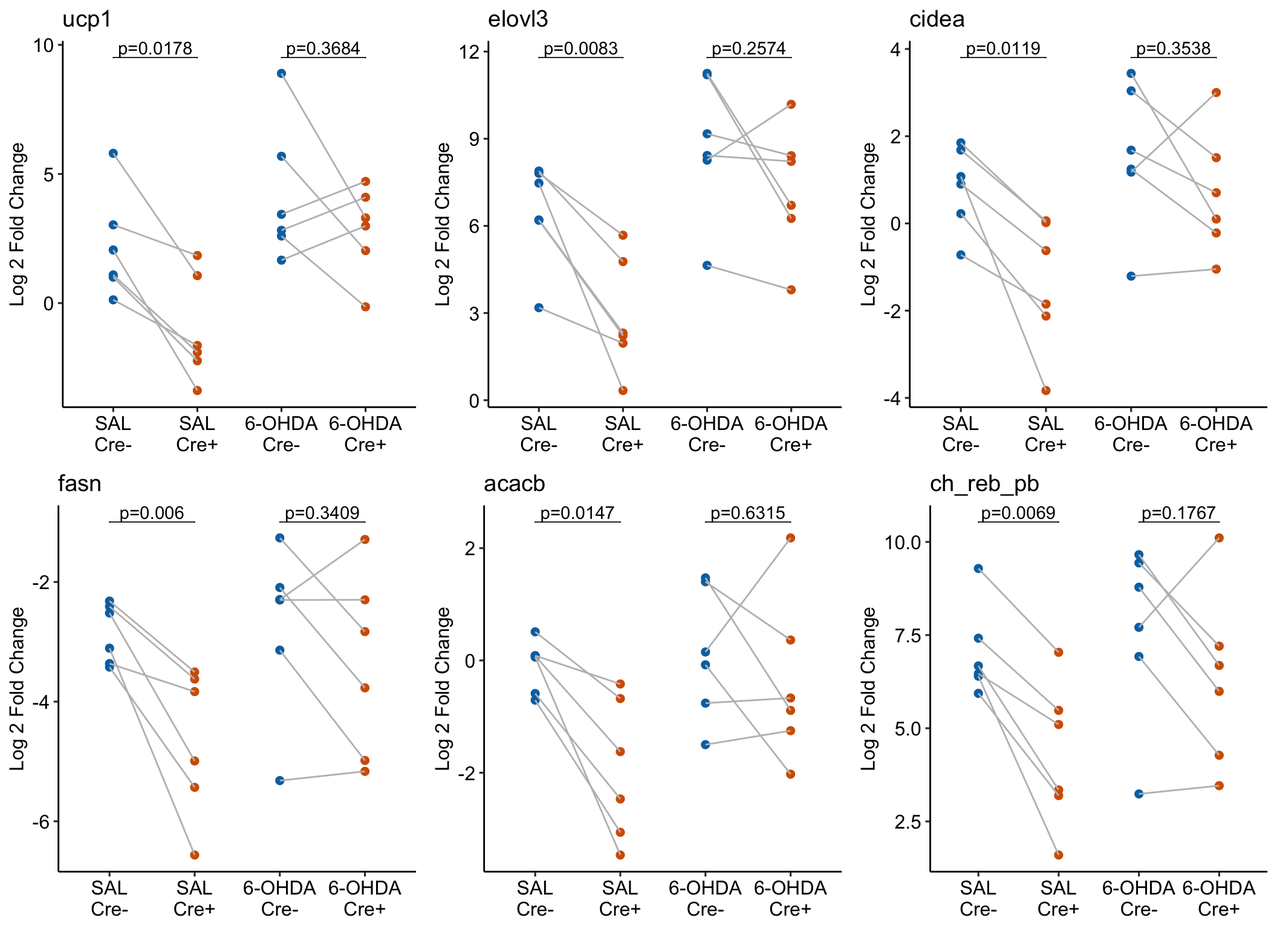
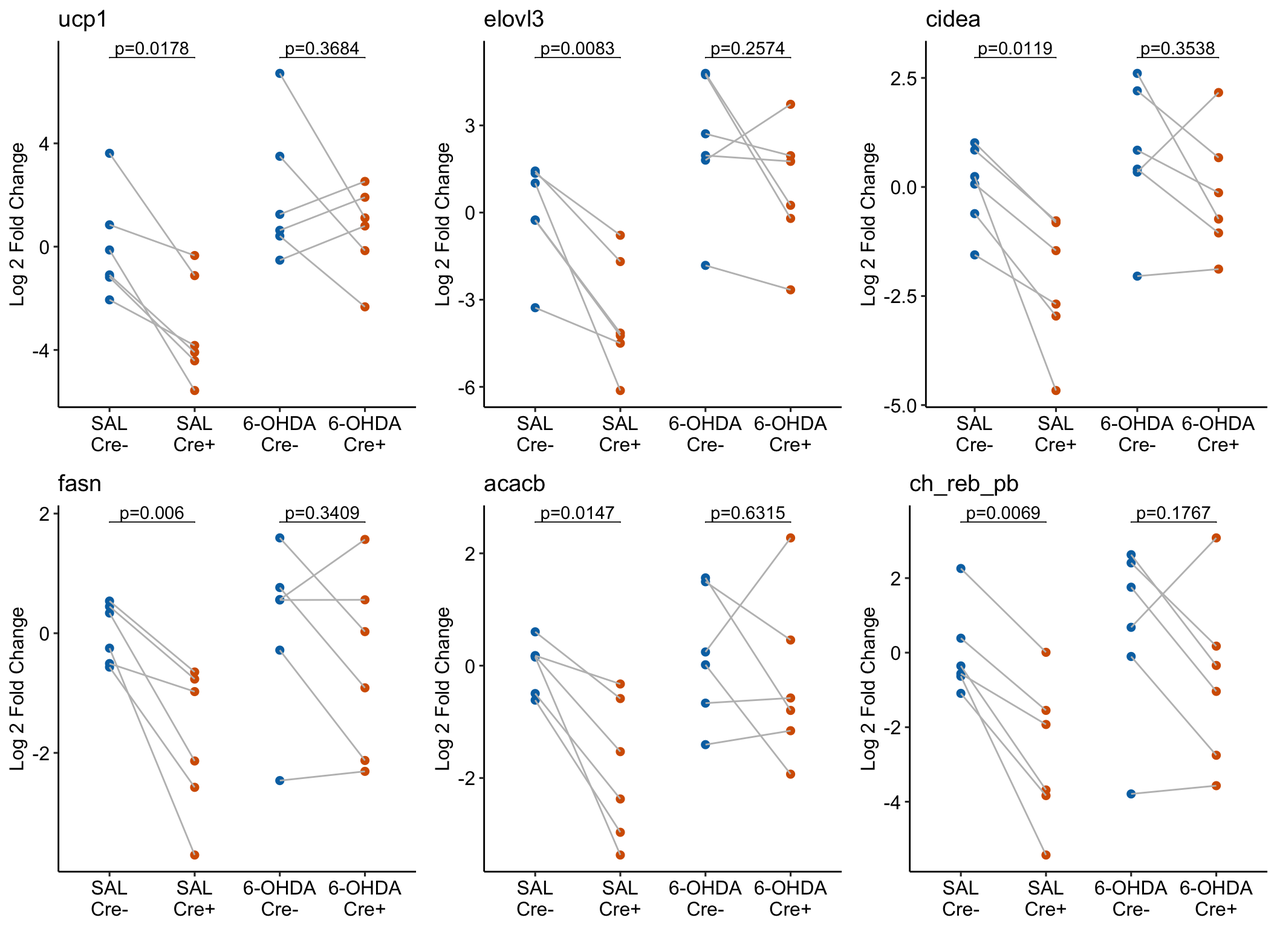
somatosensory update

diff --git a/_site/posts/The role of somatosensory innervation of adipose tissues/The role of somatosensory innervation of adipose tissues.html b/_site/posts/The role of somatosensory innervation of adipose tissues/The role of somatosensory innervation of adipose tissues.html
@@ -8,7 +8,7 @@
 
 <meta name="author" content="Jeff Walker">
 <meta name="dcterms.date" content="2024-05-21">
-<meta name="description" content="Fig 3g is a split-plot design. I often see researchers analyze these using separate paired t-tests. This isn’t so bad, but is limiting, and a better alternative is a linear mixed model. But does this replicate the Repeated Measures ANOVA in GraphPad used by the researchers? It does! Yaaay!">
+<meta name="description" content="Fig 3g is a split-plot design. I often see researchers analyze these using separate paired t-tests. This isn’t so bad, but is limiting, and a better alternative is a linear mixed model. But does this replicate the Repeated Measures ANOVA in GraphPad used by the researchers? It does! Yaaay! But, what’s going on with the direction of the effects in Fig 3g?">
 
 <title>Data From - Fig 3g – The role of somatosensory innervation of adipose tissues</title>
 <style>
@@ -149,13 +149,15 @@ pre > code.sourceCode > span > a:first-child::before { text-decoration: underlin
       <h1 class="title">Fig 3g – The role of somatosensory innervation of adipose tissues</h1>
                   <div>
         <div class="description">
-          Fig 3g is a split-plot design. I often see researchers analyze these using separate paired t-tests. This isn’t so bad, but is limiting, and a better alternative is a linear mixed model. But does this replicate the Repeated Measures ANOVA in GraphPad used by the researchers? It does! Yaaay!
+          Fig 3g is a split-plot design. I often see researchers analyze these using separate paired t-tests. This isn’t so bad, but is limiting, and a better alternative is a linear mixed model. But does this replicate the Repeated Measures ANOVA in GraphPad used by the researchers? It does! Yaaay! But, what’s going on with the direction of the effects in Fig 3g?
         </div>
       </div>
                           <div class="quarto-categories">
                 <div class="quarto-category">linear mixed model</div>
                 <div class="quarto-category">random intercept</div>
-                <div class="quarto-category">RSPD</div>
+                <div class="quarto-category">split plot</div>
+                <div class="quarto-category">ggplot</div>
+                <div class="quarto-category">data flag</div>
               </div>
                   </div>
   </div>
@@ -209,7 +211,7 @@ pre > code.sourceCode > span > a:first-child::before { text-decoration: underlin
   <li><a href="#improving-on-the-authors-adjusting-all-6-responses-using-fdr" id="toc-improving-on-the-authors-adjusting-all-6-responses-using-fdr" class="nav-link" data-scroll-target="#improving-on-the-authors-adjusting-all-6-responses-using-fdr">Improving on the authors: adjusting all 6 responses using FDR</a></li>
   <li><a href="#plots" id="toc-plots" class="nav-link" data-scroll-target="#plots">Plots!</a></li>
   <li><a href="#whoops-the-published-figure-has-data-that-is-upside-down" id="toc-whoops-the-published-figure-has-data-that-is-upside-down" class="nav-link" data-scroll-target="#whoops-the-published-figure-has-data-that-is-upside-down">Whoops! The published figure has data that is upside down</a></li>
-  <li><a href="#methods" id="toc-methods" class="nav-link" data-scroll-target="#methods">Methods</a></li>
+  <li><a href="#published-methods-cut-and-pasted-from-the-article" id="toc-published-methods-cut-and-pasted-from-the-article" class="nav-link" data-scroll-target="#published-methods-cut-and-pasted-from-the-article">Published methods, cut and pasted from the article</a></li>
   </ul>
 </nav>
     </div>
@@ -233,7 +235,7 @@ pre > code.sourceCode > span > a:first-child::before { text-decoration: underlin
 <p>Published methods: repeated measures ANOVA</p>
 <p>Design: Randomized Split Plot Design (RSPD)</p>
 <p>Response: fold-change in gene expression</p>
-<p>Key learning concepts: linear mixed model, random intercept, RSPD</p>
+<p>Key learning concepts: linear mixed model, random intercept, split-plot, repeated measures ANOVA</p>
 <p>More info: <a href="https://www.middleprofessor.com/files/applied-biostatistics_bookdown/_book/lmm" target="_blank">Chapter 16 Models for non-independence – linear mixed models</a></p>
 </section>
 <section id="the-experiment" class="level2">
@@ -269,22 +271,24 @@ pre > code.sourceCode > span > a:first-child::before { text-decoration: underlin
 </section>
 <section id="what-is-a-randomized-split-plot-design-rspd" class="level2">
 <h2 class="anchored" data-anchor-id="what-is-a-randomized-split-plot-design-rspd">What is a randomized split plot design (RSPD)?</h2>
-<p>This is a randomized split plot design. tx (Sal or OHDA) is randomly assigned to Mouse - this is the “plot”. Within a mouse, surgery (YFP or Cre) is assigned to side – this is the “subplot”. Mouse acts like a blocking factor for surgery but a completely randomized factor for tx. There is no subplot replication within a plot (mouse) so linear mixed model (using R formula notation is)</p>
+<p>This is a randomized split plot design. tx (Sal or OHDA) is randomly assigned to Mouse - a mouse is the “plot”. Within a mouse, surgery (YFP or Cre) is assigned to side – this is the “subplot”. Mouse acts like a blocking factor for surgery but a completely randomized factor for tx. There is no subplot replication within a plot (mouse) so the linear mixed model (using R formula notation) is</p>
 <p><code>fc ~ tx * surgery + (1 | ear_tag)</code></p>
-<p>A question I had with this is, can I replicate the researcher’s results, as they used “Repeated Measures ANOVA” in GraphPad Prism. In general, I can replicate GraphPad results with a blocked design but I haven’t tried a split plot design (generally because I’ve yet to find a paper with a split plot design that was analyzed in GraphPad using RM ANOVA)</p>
+<p>The factor ear_tag is a <strong>random intercept</strong>.</p>
+<p>A question I had with this is, can I replicate the researcher’s results, as they used “Repeated Measures ANOVA” in GraphPad Prism. In general, I can replicate GraphPad results with a blocked design but I haven’t tried a split plot design (generally because I don’t think that I’ve found a paper with a split plot design that was analyzed in GraphPad using RM ANOVA)</p>
 <p>Advantages of the linear mixed model</p>
 <ol type="1">
 <li>it can handle missing data – ANOVA throws out data points if there is any value missing value within the Plot variable (here, this is mouse ear_tag)</li>
 <li>it is easy to handle non-normal data using generalized linear mixed models – ANOVA is for linear models only, although one can transform the response.</li>
 <li>it is flexible, for example it is easy to add covariates. This isn’t so important for the bench biology data that I mostly see, although it is useful for example if a response was dependent on mouse weight and we wanted to adjust for weight without using a ratio.</li>
 </ol>
-<p>Advantages of the RM ANOVA model 1. It always works! LMM algorithms can fail (not infrequently)</p>
+<p>Advantages of the RM ANOVA model 1. It always works! LMM algorithms can fail, and not infrequently.</p>
 </section>
 <section id="setup" class="level2">
 <h2 class="anchored" data-anchor-id="setup">Setup</h2>
 </section>
 <section id="import-and-wrangle" class="level2">
 <h2 class="anchored" data-anchor-id="import-and-wrangle">Import and Wrangle</h2>
+<p>Note: there are two sets of Fig 3g data. The bottom set looks like it is the top set recentered so that the mean of the SAL-YFP treatment has is mean zero. Since the data in the figure looked centered this way, I’ll import the bottom set.</p>
 <div class="cell">
 <details>
 <summary>Code</summary>
@@ -294,7 +298,7 @@ pre > code.sourceCode > span > a:first-child::before { text-decoration: underlin
 <span id="cb1-4"><a href="#cb1-4" aria-hidden="true" tabindex="-1"></a></span>
 <span id="cb1-5"><a href="#cb1-5" aria-hidden="true" tabindex="-1"></a>fig3g <span class="ot">&lt;-</span> <span class="fu">read_excel</span>(file_path,</span>
 <span id="cb1-6"><a href="#cb1-6" aria-hidden="true" tabindex="-1"></a>                    <span class="at">sheet =</span> <span class="st">"3g"</span>,</span>
-<span id="cb1-7"><a href="#cb1-7" aria-hidden="true" tabindex="-1"></a>                    <span class="at">range =</span> <span class="st">"B6:K30"</span>,</span>
+<span id="cb1-7"><a href="#cb1-7" aria-hidden="true" tabindex="-1"></a>                    <span class="at">range =</span> <span class="st">"B34:K58"</span>,</span>
 <span id="cb1-8"><a href="#cb1-8" aria-hidden="true" tabindex="-1"></a>                    <span class="at">col_names =</span> <span class="cn">TRUE</span>) <span class="sc">|&gt;</span></span>
 <span id="cb1-9"><a href="#cb1-9" aria-hidden="true" tabindex="-1"></a>  <span class="fu">data.table</span>() <span class="sc">|&gt;</span></span>
 <span id="cb1-10"><a href="#cb1-10" aria-hidden="true" tabindex="-1"></a>  <span class="fu">clean_names</span>()</span>
@@ -806,15 +810,13 @@ pre > code.sourceCode > span > a:first-child::before { text-decoration: underlin
 <span id="cb7-42"><a href="#cb7-42" aria-hidden="true" tabindex="-1"></a></span>
 <span id="cb7-43"><a href="#cb7-43" aria-hidden="true" tabindex="-1"></a>gg_list <span class="ot">&lt;-</span> <span class="fu">list</span>()</span>
 <span id="cb7-44"><a href="#cb7-44" aria-hidden="true" tabindex="-1"></a><span class="cf">for</span>(i <span class="cf">in</span> <span class="dv">1</span><span class="sc">:</span><span class="fu">length</span>(y_list)){</span>
-<span id="cb7-45"><a href="#cb7-45" aria-hidden="true" tabindex="-1"></a>  m1 <span class="ot">&lt;-</span> fig3g_lmm1[[y_list[i]]]</span>
-<span id="cb7-46"><a href="#cb7-46" aria-hidden="true" tabindex="-1"></a>  m1_emm <span class="ot">&lt;-</span> fig3g_lmm1_emm[[y_list[i]]]</span>
-<span id="cb7-47"><a href="#cb7-47" aria-hidden="true" tabindex="-1"></a>  m1_pairs <span class="ot">&lt;-</span> fig3g_lmm1_pairs[[y_list[i]]]</span>
-<span id="cb7-48"><a href="#cb7-48" aria-hidden="true" tabindex="-1"></a>  <span class="co"># use the sidak p-values</span></span>
-<span id="cb7-49"><a href="#cb7-49" aria-hidden="true" tabindex="-1"></a>  m1_pairs[, p.value <span class="sc">:</span><span class="er">=</span> p_sidak]</span>
-<span id="cb7-50"><a href="#cb7-50" aria-hidden="true" tabindex="-1"></a>  gg <span class="ot">&lt;-</span> <span class="fu">plot_it</span>(<span class="at">y_col =</span> y_list[i], m1_pairs)</span>
-<span id="cb7-51"><a href="#cb7-51" aria-hidden="true" tabindex="-1"></a>  gg_list[[y_list[i]]] <span class="ot">&lt;-</span> gg</span>
-<span id="cb7-52"><a href="#cb7-52" aria-hidden="true" tabindex="-1"></a>}</span>
-<span id="cb7-53"><a href="#cb7-53" aria-hidden="true" tabindex="-1"></a><span class="fu">plot_grid</span>(<span class="at">plotlist =</span> gg_list, <span class="at">nrow =</span> <span class="dv">2</span>)</span></code><button title="Copy to Clipboard" class="code-copy-button"><i class="bi"></i></button></pre></div>
+<span id="cb7-45"><a href="#cb7-45" aria-hidden="true" tabindex="-1"></a>  m1_pairs <span class="ot">&lt;-</span> fig3g_lmm1_pairs[[y_list[i]]]</span>
+<span id="cb7-46"><a href="#cb7-46" aria-hidden="true" tabindex="-1"></a>  <span class="co"># use the sidak p-values</span></span>
+<span id="cb7-47"><a href="#cb7-47" aria-hidden="true" tabindex="-1"></a>  m1_pairs[, p.value <span class="sc">:</span><span class="er">=</span> p_sidak]</span>
+<span id="cb7-48"><a href="#cb7-48" aria-hidden="true" tabindex="-1"></a>  gg <span class="ot">&lt;-</span> <span class="fu">plot_it</span>(<span class="at">y_col =</span> y_list[i], m1_pairs)</span>
+<span id="cb7-49"><a href="#cb7-49" aria-hidden="true" tabindex="-1"></a>  gg_list[[y_list[i]]] <span class="ot">&lt;-</span> gg</span>
+<span id="cb7-50"><a href="#cb7-50" aria-hidden="true" tabindex="-1"></a>}</span>
+<span id="cb7-51"><a href="#cb7-51" aria-hidden="true" tabindex="-1"></a><span class="fu">plot_grid</span>(<span class="at">plotlist =</span> gg_list, <span class="at">nrow =</span> <span class="dv">2</span>)</span></code><button title="Copy to Clipboard" class="code-copy-button"><i class="bi"></i></button></pre></div>
 </details>
 <div class="cell-output-display">
 <p><img src="The-role-of-somatosensory-innervation-of-adipose-tissues_files/figure-html/unnamed-chunk-5-1.png" class="img-fluid" width="1056"></p>
@@ -830,10 +832,46 @@ pre > code.sourceCode > span > a:first-child::before { text-decoration: underlin
 </figure>
 </div>
 <p>Compare my figure with the published figure.</p>
-<p>The figured data is reflected about some horizontal axis, that is, it is upside down, so the apparent direction of the differences is exactly opposite that of the archived data in the Excel file. The directions of the differences given in the GraphPad prism post-hoc tables in the archived Excel file are correct for the data given in that file. This also of course effects the interpretation of the experiment!</p>
+<p>Compared to my figure built from the archived data, the data in Fig3g is reflected about some horizontal axis, that is, the data are upside down, so the apparent direction of the differences is exactly opposite that of the archived data in the Excel file. The GraphPad prism contrasts tables in the Excel file match the archived data in the Excel file, so the data in the figure would seem to be wrong, unless I’m missing something. This doesn’t matter for the p-values but since directions of the differences are exactly opposite, the interpretation of the results is exactly opposite!</p>
+<p>Let’s reflect the gene expression values by multiplying them by -1 and replot:</p>
+<div class="cell">
+<details>
+<summary>Code</summary>
+<div class="sourceCode cell-code" id="cb8"><pre class="sourceCode r code-with-copy"><code class="sourceCode r"><span id="cb8-1"><a href="#cb8-1" aria-hidden="true" tabindex="-1"></a><span class="co"># reflect the values in the response variables</span></span>
+<span id="cb8-2"><a href="#cb8-2" aria-hidden="true" tabindex="-1"></a>fig3g[, ucp1_ref <span class="sc">:</span><span class="er">=</span> <span class="sc">-</span>ucp1]</span>
+<span id="cb8-3"><a href="#cb8-3" aria-hidden="true" tabindex="-1"></a>fig3g[, elovl3_ref <span class="sc">:</span><span class="er">=</span> <span class="sc">-</span>elovl3]</span>
+<span id="cb8-4"><a href="#cb8-4" aria-hidden="true" tabindex="-1"></a>fig3g[, cidea_ref <span class="sc">:</span><span class="er">=</span> <span class="sc">-</span>cidea]</span>
+<span id="cb8-5"><a href="#cb8-5" aria-hidden="true" tabindex="-1"></a>fig3g[, fasn_ref <span class="sc">:</span><span class="er">=</span> <span class="sc">-</span>fasn]</span>
+<span id="cb8-6"><a href="#cb8-6" aria-hidden="true" tabindex="-1"></a>fig3g[, acacb_ref <span class="sc">:</span><span class="er">=</span> <span class="sc">-</span>acacb]</span>
+<span id="cb8-7"><a href="#cb8-7" aria-hidden="true" tabindex="-1"></a>fig3g[, ch_reb_pb_ref <span class="sc">:</span><span class="er">=</span> <span class="sc">-</span>ch_reb_pb]</span>
+<span id="cb8-8"><a href="#cb8-8" aria-hidden="true" tabindex="-1"></a></span>
+<span id="cb8-9"><a href="#cb8-9" aria-hidden="true" tabindex="-1"></a>y_list_ref <span class="ot">&lt;-</span> <span class="fu">paste0</span>(y_list, <span class="st">"_ref"</span>)</span>
+<span id="cb8-10"><a href="#cb8-10" aria-hidden="true" tabindex="-1"></a>gg_list <span class="ot">&lt;-</span> <span class="fu">list</span>()</span>
+<span id="cb8-11"><a href="#cb8-11" aria-hidden="true" tabindex="-1"></a><span class="cf">for</span>(i <span class="cf">in</span> <span class="dv">1</span><span class="sc">:</span><span class="fu">length</span>(y_list)){</span>
+<span id="cb8-12"><a href="#cb8-12" aria-hidden="true" tabindex="-1"></a>  m1_pairs <span class="ot">&lt;-</span> fig3g_lmm1_pairs[[y_list[i]]]</span>
+<span id="cb8-13"><a href="#cb8-13" aria-hidden="true" tabindex="-1"></a>  <span class="co"># use the sidak p-values</span></span>
+<span id="cb8-14"><a href="#cb8-14" aria-hidden="true" tabindex="-1"></a>  m1_pairs[, p.value <span class="sc">:</span><span class="er">=</span> p_sidak]</span>
+<span id="cb8-15"><a href="#cb8-15" aria-hidden="true" tabindex="-1"></a>  gg <span class="ot">&lt;-</span> <span class="fu">plot_it</span>(<span class="at">y_col =</span> y_list_ref[i], m1_pairs)</span>
+<span id="cb8-16"><a href="#cb8-16" aria-hidden="true" tabindex="-1"></a>  gg_list[[y_list[i]]] <span class="ot">&lt;-</span> gg</span>
+<span id="cb8-17"><a href="#cb8-17" aria-hidden="true" tabindex="-1"></a>}</span>
+<span id="cb8-18"><a href="#cb8-18" aria-hidden="true" tabindex="-1"></a><span class="fu">plot_grid</span>(<span class="at">plotlist =</span> gg_list, <span class="at">nrow =</span> <span class="dv">2</span>)</span></code><button title="Copy to Clipboard" class="code-copy-button"><i class="bi"></i></button></pre></div>
+</details>
+<div class="cell-output-display">
+<p><img src="The-role-of-somatosensory-innervation-of-adipose-tissues_files/figure-html/unnamed-chunk-6-1.png" class="img-fluid" width="1056"></p>
+</div>
+</div>
+<p>Okay - this replicates the plot but what is the justification for reflecting the data and reversing the direction of the difference?</p>
+<div class="cell">
+<details>
+<summary>Code</summary>
+<div class="sourceCode cell-code" id="cb9"><pre class="sourceCode r code-with-copy"><code class="sourceCode r"><span id="cb9-1"><a href="#cb9-1" aria-hidden="true" tabindex="-1"></a><span class="cf">for</span>(i <span class="cf">in</span> <span class="dv">1</span><span class="sc">:</span><span class="fu">length</span>(y_list)){</span>
+<span id="cb9-2"><a href="#cb9-2" aria-hidden="true" tabindex="-1"></a>  m1 <span class="ot">&lt;-</span> fig3g_lmm1[[y_list[i]]]</span>
+<span id="cb9-3"><a href="#cb9-3" aria-hidden="true" tabindex="-1"></a>}</span></code><button title="Copy to Clipboard" class="code-copy-button"><i class="bi"></i></button></pre></div>
+</details>
+</div>
 </section>
-<section id="methods" class="level2">
-<h2 class="anchored" data-anchor-id="methods">Methods</h2>
+<section id="published-methods-cut-and-pasted-from-the-article" class="level2">
+<h2 class="anchored" data-anchor-id="published-methods-cut-and-pasted-from-the-article">Published methods, cut and pasted from the article</h2>
 <p>A combination of axonal target injection of retrograde Cre and somatic expression of a Cre-dependent payload has been widely used to manipulate projection-specific circuits in the brain. However, legacy peripheral viral tracers such as pseudorabies virus and herpes simplex virus are highly toxic, restricting their use beyond acute anatomical mapping. In search for newer and safer viral vectors suitable for long-term functional manipulations, we found that AAV9 exhibited a high retrograde potential from iWAT to DRGs (Extended Data Fig. 4a). We adopted a published viral engineering pipeline22 to generate randomized mutants of AAV9 (Extended Data Fig. 4b,c). Although our initial intent was to improve retrograde efficiency from fat to DRGs, the evolved new retrograde vector optimized for organ tracing (or ROOT) is more desirable mainly for its significantly reduced off-target expression such as in SChGs, contralateral DRGs and the liver (Fig. 2a,b and Extended Data Fig. 4d–g).</p>
 <p>ROOT provides an opportunity to specifically ablate the sensory innervation in fat—we injected Cre-dependent diphtheria toxin subunit A (DTA) construct (mCherry-flex-DTA) into the T13/L1 DRGs bilaterally while injecting Cre- or YFP-expressing ROOT unilaterally in the iWATs (Fig. 2c).</p>
 <p>As thermogenic and lipogenesis programs are both downstream of sympathetic signalling24,26,29, we next tested whether the sensory-elicited gene expression changes are dependent on intact sympathetic innervation. We bilaterally injected 6-OHDA—a catecholaminergic toxin for selective sympathetic denervation (Extended Data Fig. 6c,d)—into the iWAT of mice that had previously undergone unilateral sensory ablation (Fig. 3f).</p>

diff --git a/_site/index.html b/_site/index.html
@@ -158,7 +158,7 @@ ul.task-list li input[type="checkbox"] {
 <!-- margin-sidebar -->
     <div id="quarto-margin-sidebar" class="sidebar margin-sidebar">
         
-    <h5 class="quarto-listing-category-title">Categories</h5><div class="quarto-listing-category category-default"><div class="category" data-category="">All <span class="quarto-category-count">(2)</span></div><div class="category" data-category="CRDS">CRDS <span class="quarto-category-count">(1)</span></div><div class="category" data-category="RSPD">RSPD <span class="quarto-category-count">(1)</span></div><div class="category" data-category="linear mixed model">linear mixed model <span class="quarto-category-count">(1)</span></div><div class="category" data-category="nested">nested <span class="quarto-category-count">(1)</span></div><div class="category" data-category="pseudoreplication">pseudoreplication <span class="quarto-category-count">(1)</span></div><div class="category" data-category="random intercept">random intercept <span class="quarto-category-count">(1)</span></div><div class="category" data-category="technical replicates">technical replicates <span class="quarto-category-count">(1)</span></div></div></div>
+    <h5 class="quarto-listing-category-title">Categories</h5><div class="quarto-listing-category category-default"><div class="category" data-category="">All <span class="quarto-category-count">(2)</span></div><div class="category" data-category="CRDS">CRDS <span class="quarto-category-count">(1)</span></div><div class="category" data-category="analysis flag">analysis flag <span class="quarto-category-count">(1)</span></div><div class="category" data-category="data flag">data flag <span class="quarto-category-count">(1)</span></div><div class="category" data-category="ggplot">ggplot <span class="quarto-category-count">(1)</span></div><div class="category" data-category="linear mixed model">linear mixed model <span class="quarto-category-count">(1)</span></div><div class="category" data-category="nested">nested <span class="quarto-category-count">(1)</span></div><div class="category" data-category="pseudoreplication">pseudoreplication <span class="quarto-category-count">(1)</span></div><div class="category" data-category="random intercept">random intercept <span class="quarto-category-count">(1)</span></div><div class="category" data-category="split plot">split plot <span class="quarto-category-count">(1)</span></div><div class="category" data-category="technical replicates">technical replicates <span class="quarto-category-count">(1)</span></div></div></div>
 <!-- main -->
 <main class="content quarto-banner-title-block column-page-left" id="quarto-document-content">
 
@@ -171,7 +171,7 @@ ul.task-list li input[type="checkbox"] {
 
 <div class="quarto-listing quarto-listing-container-default" id="listing-listing">
 <div class="list quarto-listing-default">
-<div class="quarto-post image-right" data-index="0" data-categories="linear mixed model,random intercept,RSPD" data-listing-date-sort="1716264000000" data-listing-file-modified-sort="1716380149294" data-listing-date-modified-sort="NaN" data-listing-reading-time-sort="13">
+<div class="quarto-post image-right" data-index="0" data-categories="linear mixed model,random intercept,split plot,ggplot,data flag" data-listing-date-sort="1716264000000" data-listing-file-modified-sort="1716413317265" data-listing-date-modified-sort="NaN" data-listing-reading-time-sort="14">
 <div class="thumbnail">
 <p><a href="./posts/The role of somatosensory innervation of adipose tissues/The role of somatosensory innervation of adipose tissues.html"> <p class="card-img-top"><img src="figs/The role of somatosensory innervation of adipose tissues/fig3g.png"  class="thumbnail-image card-img"/></p> </a></p>
 </div>
@@ -191,13 +191,19 @@ linear mixed model
 <div class="listing-category" onclick="window.quartoListingCategory('random intercept'); return false;">
 random intercept
 </div>
-<div class="listing-category" onclick="window.quartoListingCategory('RSPD'); return false;">
-RSPD
+<div class="listing-category" onclick="window.quartoListingCategory('split plot'); return false;">
+split plot
+</div>
+<div class="listing-category" onclick="window.quartoListingCategory('ggplot'); return false;">
+ggplot
+</div>
+<div class="listing-category" onclick="window.quartoListingCategory('data flag'); return false;">
+data flag
 </div>
 </div>
 <a href="./posts/The role of somatosensory innervation of adipose tissues/The role of somatosensory innervation of adipose tissues.html">
 <div class="listing-description">
-<p>Fig 3g is a split-plot design. I often see researchers analyze these using separate paired t-tests. This isn’t so bad, but is limiting, and a better alternative is a linear mixed model. But does this replicate the Repeated Measures ANOVA in GraphPad used by the researchers? It does! Yaaay!</p>
+<p>Fig 3g is a split-plot design. I often see researchers analyze these using separate paired t-tests. This isn’t so bad, but is limiting, and a better alternative is a linear mixed model. But does this replicate the Repeated Measures ANOVA in GraphPad used by the researchers? It does! Yaaay! But, what’s going on with the direction of the effects in Fig 3g?</p>
 </div>
 </a>
 </div>
@@ -212,7 +218,7 @@ Jeff Walker
 </a>
 </div>
 </div>
-<div class="quarto-post image-right" data-index="1" data-categories="technical replicates,pseudoreplication,nested,CRDS" data-listing-date-sort="1715918400000" data-listing-file-modified-sort="1716379110069" data-listing-date-modified-sort="NaN" data-listing-reading-time-sort="22">
+<div class="quarto-post image-right" data-index="1" data-categories="technical replicates,pseudoreplication,nested,CRDS,analysis flag" data-listing-date-sort="1715918400000" data-listing-file-modified-sort="1716399566781" data-listing-date-modified-sort="NaN" data-listing-reading-time-sort="22">
 <div class="thumbnail">
 <p><a href="./posts/FOXO1 is a master regulator of memory programming in CAR T cells/FOXO1 is a master regulator of memory programming in CAR T cells.html"> <p class="card-img-top"><img src="figs/FOXO1 is a master regulator of memory programming in CAR T cells/fig4h.png"  class="thumbnail-image card-img"/></p> </a></p>
 </div>
@@ -238,10 +244,13 @@ nested
 <div class="listing-category" onclick="window.quartoListingCategory('CRDS'); return false;">
 CRDS
 </div>
+<div class="listing-category" onclick="window.quartoListingCategory('analysis flag'); return false;">
+analysis flag
+</div>
 </div>
 <a href="./posts/FOXO1 is a master regulator of memory programming in CAR T cells/FOXO1 is a master regulator of memory programming in CAR T cells.html">
 <div class="listing-description">
-<p>Technical replicates should not be analyzed as if they were randomly assigned to one of the experimental treatments. They weren’t. The resulting p-value is junk.</p>
+<p>Fig 4h contains thousands of technical replicates. Technical replicates should not be analyzed as if they were randomly assigned to one of the experimental treatments. They weren’t. The resulting p-value is junk.</p>
 </div>
 </a>
 </div>

diff --git a/_site/posts/FOXO1 is a master regulator of memory programming in CAR T cells/FOXO1 is a master regulator of memory programming in CAR T cells.html b/_site/posts/FOXO1 is a master regulator of memory programming in CAR T cells/FOXO1 is a master regulator of memory programming in CAR T cells.html
@@ -8,7 +8,7 @@
 
 <meta name="author" content="Jeff Walker">
 <meta name="dcterms.date" content="2024-05-17">
-<meta name="description" content="Technical replicates should not be analyzed as if they were randomly assigned to one of the experimental treatments. They weren’t. The resulting p-value is junk.">
+<meta name="description" content="Fig 4h contains thousands of technical replicates. Technical replicates should not be analyzed as if they were randomly assigned to one of the experimental treatments. They weren’t. The resulting p-value is junk.">
 
 <title>Data From - Fig 4h – FOXO1 is a master regulator of memory programming in CAR T cells</title>
 <style>
@@ -151,7 +151,7 @@ pre > code.sourceCode > span > a:first-child::before { text-decoration: underlin
       <h1 class="title">Fig 4h – FOXO1 is a master regulator of memory programming in CAR T cells</h1>
                   <div>
         <div class="description">
-          Technical replicates should not be analyzed as if they were randomly assigned to one of the experimental treatments. They weren’t. The resulting p-value is junk.
+          Fig 4h contains thousands of technical replicates. Technical replicates should not be analyzed as if they were randomly assigned to one of the experimental treatments. They weren’t. The resulting p-value is junk.
         </div>
       </div>
                           <div class="quarto-categories">
@@ -159,6 +159,7 @@ pre > code.sourceCode > span > a:first-child::before { text-decoration: underlin
                 <div class="quarto-category">pseudoreplication</div>
                 <div class="quarto-category">nested</div>
                 <div class="quarto-category">CRDS</div>
+                <div class="quarto-category">analysis flag</div>
               </div>
                   </div>
   </div>
@@ -210,7 +211,7 @@ pre > code.sourceCode > span > a:first-child::before { text-decoration: underlin
   <li><a href="#a-conservative-attempt-at-inference-using-resampling" id="toc-a-conservative-attempt-at-inference-using-resampling" class="nav-link" data-scroll-target="#a-conservative-attempt-at-inference-using-resampling">A conservative attempt at inference using resampling</a></li>
   <li><a href="#better-p-valueskinda" id="toc-better-p-valueskinda" class="nav-link" data-scroll-target="#better-p-valueskinda">Better <em>p</em>-values…kinda</a></li>
   <li><a href="#why-the-actual-experimental-design-isnt-worth-the-time-money-or-cost-to-animal-welfare" id="toc-why-the-actual-experimental-design-isnt-worth-the-time-money-or-cost-to-animal-welfare" class="nav-link" data-scroll-target="#why-the-actual-experimental-design-isnt-worth-the-time-money-or-cost-to-animal-welfare">Why the actual experimental design isn’t worth the time, money, or cost to animal welfare</a></li>
-  <li><a href="#published-methods" id="toc-published-methods" class="nav-link" data-scroll-target="#published-methods">Published Methods</a></li>
+  <li><a href="#published-methods-cut-and-pasted-from-the-article" id="toc-published-methods-cut-and-pasted-from-the-article" class="nav-link" data-scroll-target="#published-methods-cut-and-pasted-from-the-article">Published Methods, cut and pasted from the article</a></li>
   </ul>
 </nav>
     </div>
@@ -829,8 +830,8 @@ pre > code.sourceCode > span > a:first-child::before { text-decoration: underlin
 </div>
 <p>The plot shows that at effectively any ICC not super close to zero, the Type I error rates are elevated and this elevation is extreme at even very small ICC – at an ICC of 0.005, this rate is 51%! At any biologically realistic ICC, the experimental design will result in significant <em>p</em>-values the majority of the time <strong>when the true treatment effect is zero</strong>!</p>
 </section>
-<section id="published-methods" class="level2">
-<h2 class="anchored" data-anchor-id="published-methods">Published Methods</h2>
+<section id="published-methods-cut-and-pasted-from-the-article" class="level2">
+<h2 class="anchored" data-anchor-id="published-methods-cut-and-pasted-from-the-article">Published Methods, cut and pasted from the article</h2>
 <p>To determine whether FOXO1 was also capable of increasing the activ- ity of CAR T cells against solid tumours, we infused tNGFR or FOXO1OE HER2.BBζ CAR T cells into 143B osteosarcoma-bearing NSG mice.</p>
 <p>To generate single-cell RNA-seq libraries of tumour-infiltrating CAR T cells, Her2+ tumours were collected from five mice per condition, and human CD45+ cells were isolated by NGFR selection as described above (see ‘Cell selection’). Tumour-infiltrating CAR T cells were further purified by sorting human CD3+ TILs from each isolate using a Cytek Aurora Cell Sorter. A total of 20,000 CAR TILs were sorted from each tumour and pooled across five mice per group. Cells were barcoded and sequencing libraries were generated using the 10X Chromium Next GEM Single Cell 3’ v.3.1 kit (10X Genomics) according to the manufacturer’s instructions. Libraries were sequenced at the CHOP High Throughput Sequencing Core on an Illumina NovaSeq 6000 with an average read depth of 50,000 reads per cell.</p>
 <p>Gene set scores for Teff, TRM and Treg cell subtypes were calculated with AddModuleScore (Seurat), using curated gene lists from a previous study58 (Extended Data Fig. 9g–i). AddModuleScore was also used to calculate a per-cell FOXO1 transcriptional activity score, using the top 100 upregulated genes in CD8+ HA.28ζ CAR T cells overexpressing FOXO1 versus tNGFR (Fig. 2).</p>
